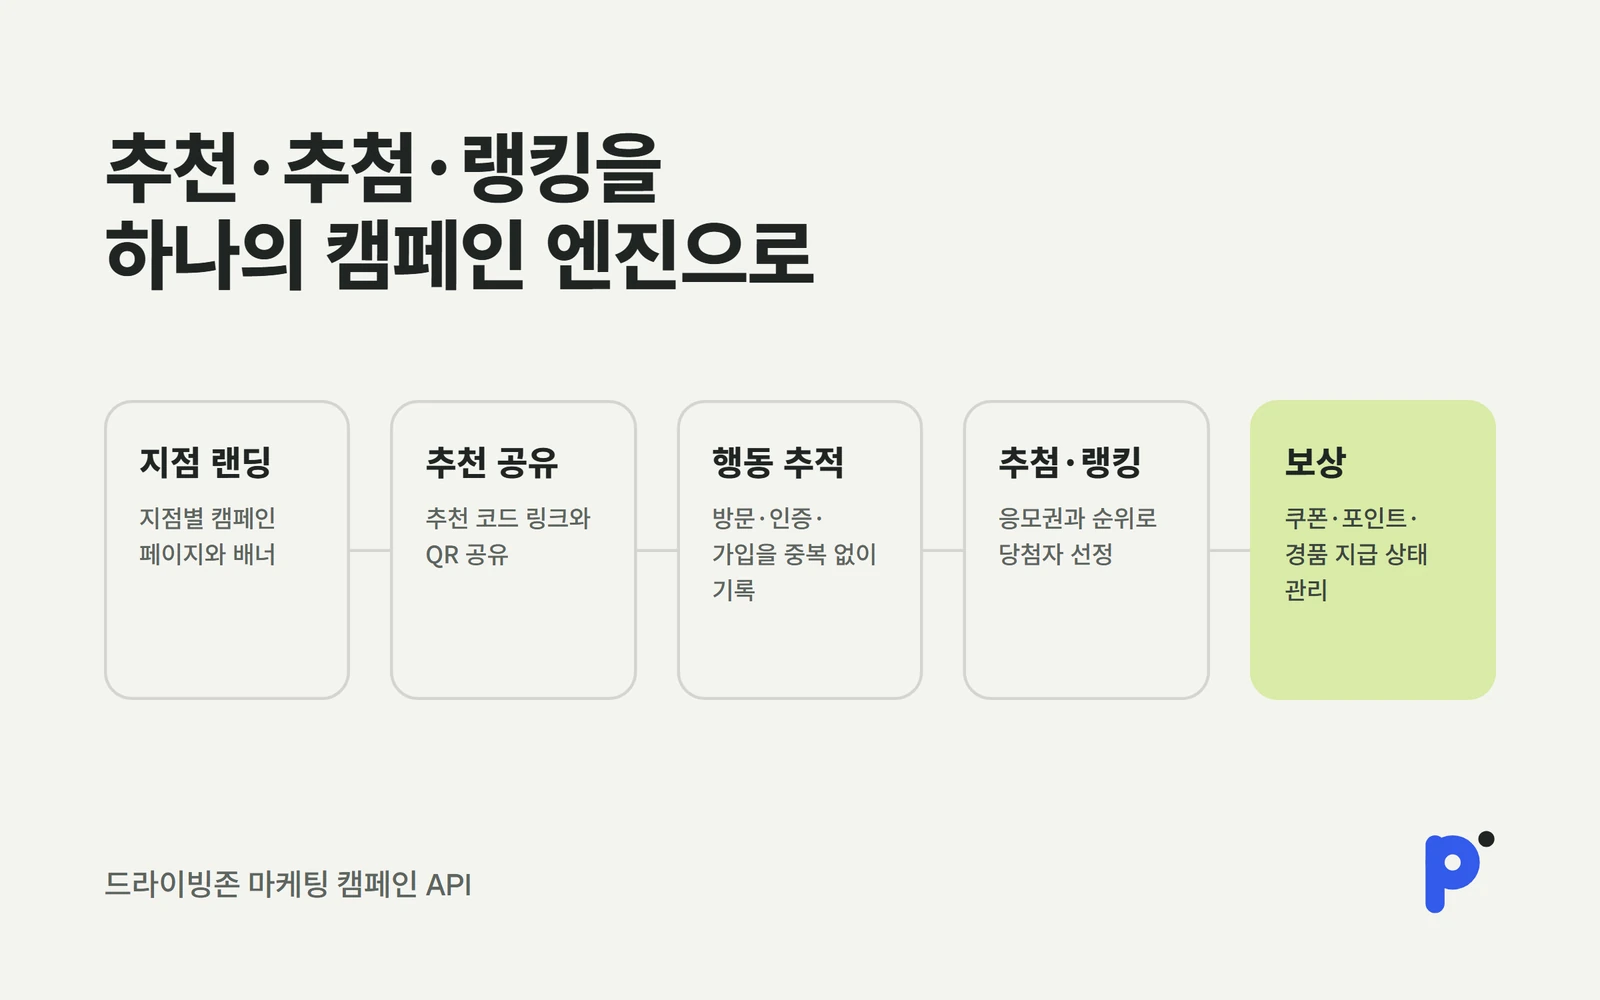
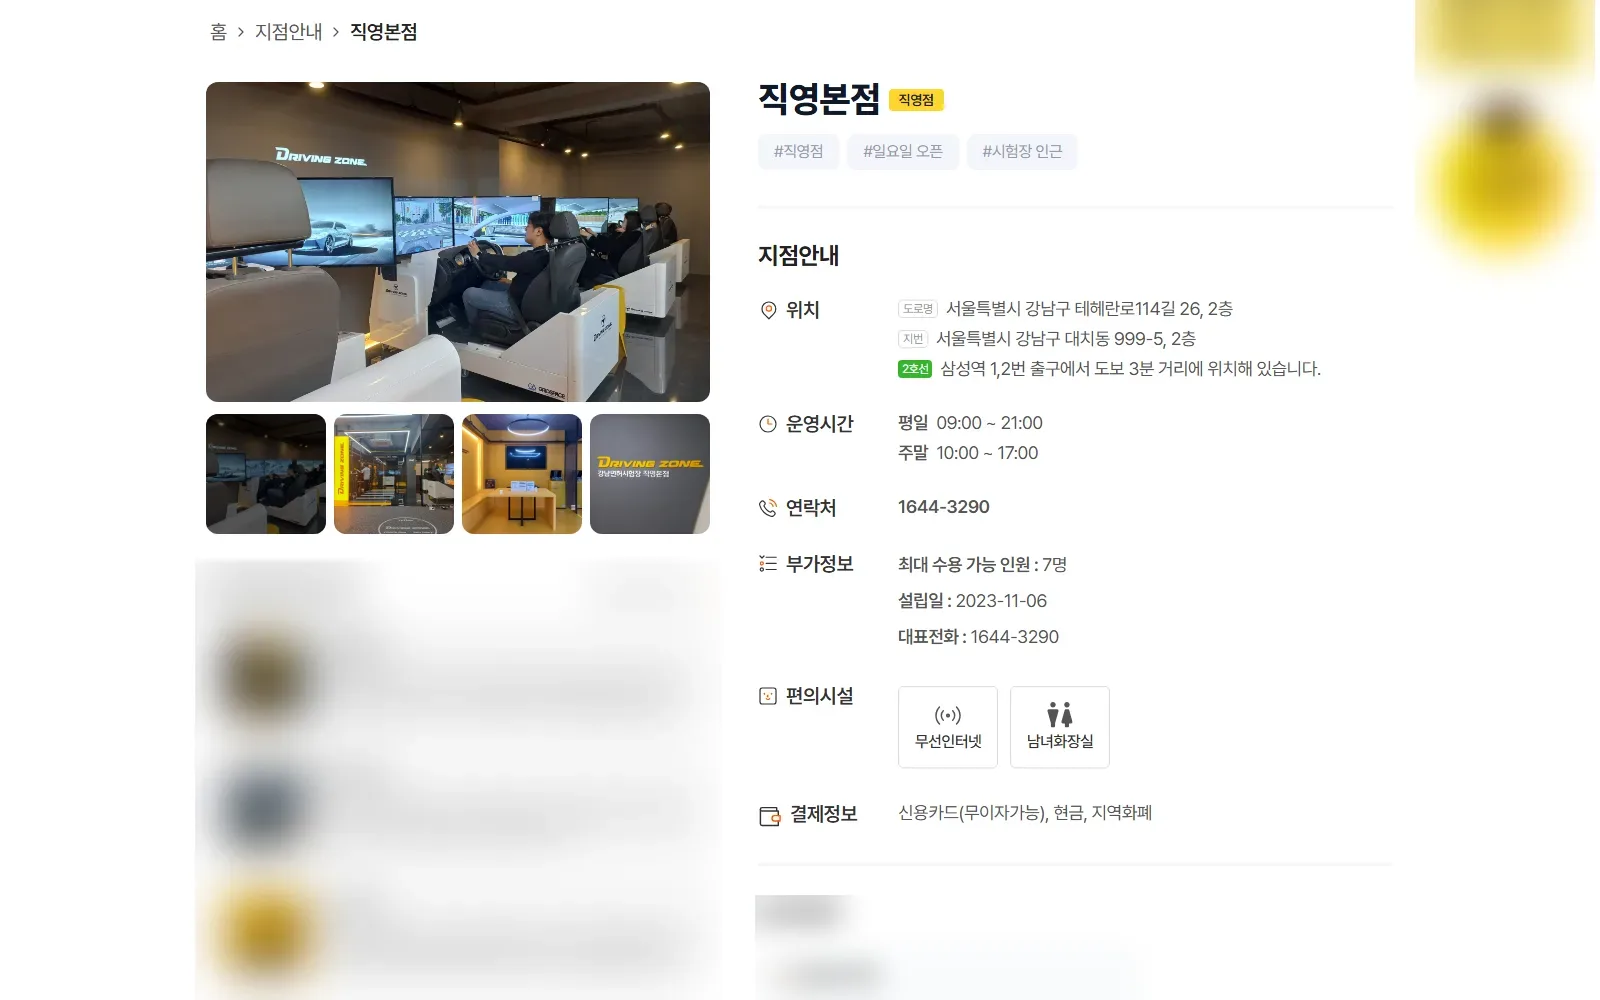
feat(work): add PredixScore; merge Drivingzone web renewal into campaign entry
From the owner's second adrock archive (-003.zip):
- predixscore (client, case, 2026): paper prediction records on public
  Polymarket data, no real orders; brand cover + panel
- drivingzone-campaign -> "드라이빙존 웹 리뉴얼 · 캠페인" (2025-2026, live):
  branch pages + SEO + campaign landing/admin from web.drivingzone, plus the
  existing API scope; live captures with widget/review/instructor names blurred
- skipped seo-app (overlaps blog engine, scraped-data lineage), adrock-event
  (2-day promo, unverified), scraw (empty); inventory and memory updated

diff --git a/lib/portfolio.ts b/lib/portfolio.ts
@@ -376,51 +376,111 @@ const projectList: readonly PortfolioProject[] = [
   },
   {
     slug: "drivingzone-campaign",
-    name: "드라이빙존 마케팅 캠페인 API",
+    name: "드라이빙존 웹 리뉴얼 · 캠페인",
     category: "client",
-    years: [2026, 2026],
+    years: [2025, 2026],
     description:
-      "운전면허 학원 지점별 캠페인 랜딩, 친구 추천·추첨·랭킹 이벤트, 상담 예약을 운영하는 NestJS 백엔드.",
-    disciplines: ["NestJS", "Marketing", "Admin API"],
-    status: "case",
-    coverKind: "brand",
-    coverMotif: "flow",
-    cover: { src: "/work/drivingzone-campaign/cover.webp", alt: "드라이빙존 마케팅 캠페인 API PLUCK 브랜드 썸네일 — 추천·추첨·랭킹을 하나의 캠페인 엔진으로" },
+      "실내 운전면허 학원 드라이빙존의 Next.js 웹 지점 페이지·SEO 리뉴얼과, 지점별 추천·추첨 캠페인 랜딩·관리자·NestJS 백엔드.",
+    disciplines: ["Next.js", "SEO", "NestJS"],
+    status: "live",
+    url: "https://www.drivingzone.co.kr/",
+    coverKind: "screenshot",
+    cover: { src: "/work/drivingzone-campaign/cover.webp", alt: "드라이빙존 지점안내 페이지 - 지도 위 지점 마커, 시/도 선택, 27개 지점 검색 결과와 필터 칩 (우측 상담 위젯 블러)" },
     gallery: [
+      { src: "/work/drivingzone-campaign/01.webp", alt: "드라이빙존 지점 상세 페이지 - 지점 사진, 위치·운영시간·연락처·편의시설 정보 (이용자 리뷰·강사 이름 블러)" },
       {
-        src: "/work/drivingzone-campaign/01.webp",
+        src: "/work/drivingzone-campaign/02.webp",
         alt: "지점 캠페인 랜딩에서 추천 코드 공유, 방문·가입 추적, 추첨·랭킹, 보상 지급으로 이어지는 흐름 설명 패널",
         diagram: {"title": "추천·추첨·랭킹을\n하나의 캠페인 엔진으로", "flow": true, "items": [{"title": "지점 랜딩", "text": "지점별 캠페인 페이지와 배너"}, {"title": "추천 공유", "text": "추천 코드 링크와 QR 공유"}, {"title": "행동 추적", "text": "방문·인증·가입을 중복 없이 기록"}, {"title": "추첨·랭킹", "text": "응모권과 순위로 당첨자 선정"}, {"title": "보상", "text": "쿠폰·포인트·경품 지급 상태 관리"}]},
       },
     ],
     detail: {
-      oneLiner: "추천·추첨·랭킹을 하나의 캠페인 엔진으로",
+      oneLiner: "지점 찾기부터 추천 캠페인까지",
       role: [
+        "프론트엔드",
+        "SEO",
+        "캠페인 관리자",
         "백엔드",
         "데이터 설계",
-        "관리자 API",
       ],
       stack: [
+        "Next.js 15",
+        "React 19",
+        "TanStack Query",
+        "next-sitemap",
         "NestJS 11",
-        "TypeScript",
         "TypeORM",
         "MariaDB",
         "Slack Webhook",
       ],
       overview:
-        "애드락(Adrock)에서 참여한 실내 운전면허 학원 드라이빙존의 백엔드 작업입니다. 기존 NestJS API에 지점별 캠페인 랜딩, 친구 추천·추첨·미션·랭킹을 묶은 마케팅 이벤트 엔진, 관리자 인증과 캠페인 관리 API를 추가했습니다.",
+        "애드락(Adrock)에서 참여한 실내 운전면허 학원 드라이빙존 작업입니다. 2025년에는 Next.js 웹의 지점 안내·지점 상세 페이지와 사이트맵·메타데이터 SEO를 맡았고, 2026년에는 지점별 추천 캠페인 랜딩과 캠페인 관리자 화면, 이를 받치는 NestJS 마케팅 이벤트 엔진을 만들었습니다.",
       problem:
-        "지점마다 진행하는 추천·응모 이벤트를 매번 따로 만들다 보니 참여자 인증, 중복 추천, 보상 지급 상태를 일관되게 관리하기 어려웠습니다.",
+        "전국 지점 정보가 검색에 잘 드러나지 않았고, 지점마다 진행하는 추천·응모 이벤트는 매번 따로 만들다 보니 참여자 인증, 중복 추천, 보상 지급 상태를 일관되게 관리하기 어려웠습니다.",
       solution:
-        "추첨·추천 보상·미션·랭킹을 한 캠페인 모델과 행동 로그로 통합하고, 공유·방문·가입을 추적해 중복 보상을 막았습니다. 지점 랜딩에서 들어온 상담 예약은 관리자 목록과 Slack 알림으로 바로 전달되게 했습니다.",
+        "지점 페이지를 API 데이터 기반으로 만들고 지점·지역 슬러그, 동적 사이트맵, 페이지별 메타데이터, 태그 기반 캐시 재검증을 붙였습니다. 캠페인은 추첨·추천 보상·미션·랭킹을 한 모델과 행동 로그로 통합해 중복 보상을 막고, 지점 랜딩의 상담 예약은 관리자 목록과 Slack 알림으로 바로 전달되게 했습니다.",
       features: [
-        "지점별 캠페인 랜딩과 배너 관리",
+        "지도 마커·지역 필터 지점 안내",
+        "지점 상세(사진·운영시간·강사·후기·가까운 지점)",
+        "동적 사이트맵·지역 슬러그·페이지별 메타데이터",
+        "지점별 추천 캠페인 랜딩과 공유 시트",
+        "캠페인·배너 관리자 화면",
         "추첨·추천 보상·미션·랭킹 이벤트 엔진",
-        "공유·방문·가입 행동 추적과 중복 보상 방지",
-        "어뷰징 플래그와 참여자 인증",
-        "강사 칭찬 후기 수집·공개",
+        "공유·방문·가입 추적과 중복 보상 방지",
         "상담 예약 접수와 Slack 알림",
-        "관리자 로그인과 캠페인 통계 API",
+      ],
+    },
+  },
+  {
+    slug: "predixscore",
+    name: "PredixScore",
+    category: "client",
+    years: [2026, 2026],
+    description:
+      "Polymarket 공개 시장 데이터로 가상 예측을 기록하고 정확도·평판을 쌓는 예측 기록 서비스. 실제 주문·자금 거래 없음.",
+    disciplines: ["Next.js", "Supabase", "Web3"],
+    status: "case",
+    coverKind: "brand",
+    cover: { src: "/work/predixscore/cover.webp", alt: "PredixScore PLUCK 브랜드 썸네일 — 공개 시장 데이터로 쌓는 예측 기록" },
+    gallery: [
+      {
+        src: "/work/predixscore/01.webp",
+        alt: "시장 데이터 조회, 가상 예측 기록, 결과 정산·통계, 온체인 기록으로 이어지는 흐름 설명 패널",
+        diagram: {"title": "공개 시장 데이터로\n쌓는 예측 기록", "flow": true, "items": [{"title": "시장 데이터", "text": "Polymarket 이벤트·가격 이력 조회"}, {"title": "가상 예측", "text": "실제 돈 없이 가상 수량으로 기록"}, {"title": "정산·통계", "text": "결과 확정 후 적중률·리더보드"}, {"title": "온체인 기록", "text": "commit-reveal 레지스트리로 검증"}]},
+      },
+    ],
+    detail: {
+      oneLiner: "공개 시장 데이터로 쌓는 예측 기록",
+      role: [
+        "기획",
+        "프론트엔드",
+        "백엔드",
+        "외부 API 연동",
+      ],
+      stack: [
+        "Next.js 15",
+        "React 19",
+        "TypeScript",
+        "Supabase",
+        "Privy",
+        "viem",
+        "next-intl",
+        "shadcn/ui",
+      ],
+      overview:
+        "애드락(Adrock)에서 만든 예측 기록 서비스입니다. Polymarket을 공개 시장 데이터 소스로만 쓰고, 사용자는 실제 주문이나 자금 거래 없이 가상 수량으로 예측을 남깁니다. 결과가 확정되면 적중률·통계·리더보드로 공개 평판을 쌓습니다. 예측 기록을 Ronin 체인의 commit-reveal 레지스트리에 남기는 부분은 팀원과 함께 붙였습니다.",
+      problem:
+        "예측을 잘한다는 주장은 기록이 남지 않으면 검증할 수 없고, 나중에 고쳐 쓸 수 있는 기록은 신뢰를 얻기 어려웠습니다.",
+      solution:
+        "Supabase 기반으로 시장 탐색·가상 예측·정산·통계·프로필 흐름을 먼저 만들고, 데이터 구조를 온체인 commit-reveal 기록으로 옮길 수 있게 설계했습니다. 지갑 로그인은 Privy로 붙이고, 한국어·영어를 지원합니다.",
+      features: [
+        "Polymarket 이벤트·마켓 탐색",
+        "가격 이력 멀티라인 차트와 구간 전환",
+        "가상 예측 기록·정산·통계",
+        "리더보드와 공개 프로필",
+        "이벤트별 댓글",
+        "Privy 지갑 로그인",
+        "한국어·영어(next-intl)",
       ],
     },
   },

diff --git a/docs/portfolio-inventory.md b/docs/portfolio-inventory.md
@@ -10,7 +10,7 @@
 - 뺀다: 자기 커밋이 없는 서드파티 OSS 포크, 다른 회사 사이트 클론·복제, 튜토리얼, 하루 미만이고 기능이 없는 스캐폴드, 트레이딩 봇, ibctgit 관련, 개인 문서·노트, 실데이터가 들어 있는 폴더.
 - 상태: `live` 는 우리가 배포했고 지금 200 으로 열리는 URL 이 있을 때만 쓴다. 고객사 실명은 고객 라이브 사이트에 이미 공개된 경우에만 쓴다.
 
-## 포함 (57)
+## 포함 (58)
 
 ### 기존 40개
 
@@ -84,10 +84,13 @@
 |---|---|---|---|---|---|
 | BlockPick (blockpick) | adrock `blockpick/app-blockpick` (Flutter) | 그리드형 이벤트 판 참여 + 포인트·리퍼럴 플랫폼의 유저앱 | 앱 · 사례 | 브랜드 썸네일 + 설명 패널 | 오너(adrock_simjae) 커밋 141/145, 2025-10~2026-05. 오너 요청으로 기존 제외 판단을 뒤집음(아래 제외 표 참고) |
 | 피트니스 센터 CRM · 회원앱 (fitness-crm) | dev-spogym/admin-pando, client-pando, docs-pando | 센터 관리자 CRM + 역할별 모바일 웹앱 + 기획 문서 사이트 | 클라이언트 · 사례 | 브랜드 썸네일 + 설명 패널 | 2026-03~06. Vercel 배포 3개 모두 404 → 링크 없음. 고객사명 미공개라 일반명 |
-| 드라이빙존 마케팅 캠페인 API (drivingzone-campaign) | adrock-dev/api.drivingzone | 지점 캠페인 랜딩·추천·추첨·랭킹 이벤트 엔진 NestJS 백엔드 | 클라이언트 · 사례 | 브랜드 썸네일 + 설명 패널 | 오너 커밋 26개(marketing·campaign-landing·admin-auth 도메인만), 2026-05~06. 레포 다른 모듈은 타 작성자 → 오너 범위로만 기재 |
+| 드라이빙존 웹 리뉴얼 · 캠페인 (drivingzone-campaign) | adrock-dev/web.drivingzone + adrock-dev/api.drivingzone | 지점 안내·상세·SEO(2025) + 캠페인 랜딩·관리자(2026) + 캠페인 이벤트 엔진 API | 클라이언트 · 라이브 | drivingzone.co.kr 라이브 캡처(상담 위젯·이용자 리뷰·강사 이름 블러) + 설명 패널 | web 오너 커밋 198개(2025-05~07, 2026-05~06, branch·SEO·campaign·admin), api 26개. 라이브 HTML 메타 문구가 레포 layout.tsx 와 일치 → 링크. 홈 화면은 팝업·수치 배지(8만명+/95.27%)라 캡처 미사용. 이력서의 '쿠폰 선물하기'는 커밋·코드에 없어 미기재 |
+| PredixScore (predixscore) | ADROCK-SIMJAE/predixscore (`-003.zip`) | Polymarket 공개 데이터 기반 가상 예측 기록·평판 서비스 | 클라이언트 · 사례 | 브랜드 썸네일 + 설명 패널 | 오너 커밋 16/19, 2026-05. Ronin 컨트랙트 배포·commit-reveal·가스 대납은 송문천 커밋 → '팀원과 함께'로만 표기. predixscore.vercel.app 은 레포와 같은 문구지만 우리 Vercel 계정에 없어 링크 보류 |
 | (확장) 운전면허 PLUS · 도로로 (adrock-driving) | adrock-dev/web.drivingplus | 운전면허 PLUS 앱 웹뷰 이벤트 화면 | 기존 유지 | 기존 유지 | 오너 커밋 251개, 2025-02~04(학과왕 응모·당첨·응모 이력·보상형 광고 브리지·Amplitude) |
 
-같은 압축본에서 뺀 것: `coupang-scraper-ext`(빈 폴더), adrock `browser-bridge`(기존 Browser Bridge 엔트리와 같은 프로젝트), adrock `seo`(경쟁사 블로그 21,275건 스크랩 데이터 + 전략 문서·PoC — 타사 데이터 기반 리서치라 게재 안 함, 기존 '블로그 양산 엔진'과 주제 중복), `_root-files`(설정 파일뿐). 브리프의 'BlockPick 웹 미니게임·결제·어드민', '드라이빙존 웹 리뉴얼'은 압축본에 코드가 없어 카피에 넣지 않음.
+두 번째 압축본(`adrock-*-003.zip`)에서 뺀 것: `scraw`(빈 폴더), `seo-app`(git 없음, academy.drivingplus.me 용 양산형 SEO 단일 테넌트 빌드 — 경쟁사 블로그 스크랩 리서치에서 이어진 것이고 기존 '블로그 양산 엔진'과 구성(관리자·워커·Next.js 커뮤니티 키트)이 겹침), `adrock-event`(세차 쿠폰 뽑기 이벤트 페이지, 오너 커밋 12개·실작업 2일(2026-04-20, 04-29), 배포·브랜드 확인 불가 → 보류).
+
+같은 압축본에서 뺀 것: `coupang-scraper-ext`(빈 폴더), adrock `browser-bridge`(기존 Browser Bridge 엔트리와 같은 프로젝트), adrock `seo`(경쟁사 블로그 21,275건 스크랩 데이터 + 전략 문서·PoC — 타사 데이터 기반 리서치라 게재 안 함, 기존 '블로그 양산 엔진'과 주제 중복), `_root-files`(설정 파일뿐). 브리프의 'BlockPick 웹 미니게임·결제·어드민', '드라이빙존 웹 리뉴얼'은 첫 압축본에 없어 보류했다가 `-003.zip` 의 web.drivingzone 으로 반영.
 
 ## 실화면·영상 캡처 현황 (2026-10-30, feat/portfolio-media)
 

diff --git a/.fry/MEMORY.md b/.fry/MEMORY.md
@@ -11,6 +11,9 @@
 - adrock-driving: 운전면허 PLUS(Play, com.adrock.driverlicense300) 저장소 android.drive 에는 오너 커밋이 없음(leemj/이미지/jdk). 오너 커밋은 web.dororo(보일러플레이트·웹뷰 통신)와 web.drivingplus(2026-11 오너 업로드 압축본, 2025-02~04 학과왕 응모·당첨 웹뷰·보상형 광고 브리지·Amplitude) → role/features 는 이 범위로만. app.drivingplus.me 는 같은 레포 계열이지만 이후 타인이 바꾼 학원찾기 사이트라 링크로 쓰지 않음. Play 스토어 스크린샷 중 '1000만이 선택', '1,601,032,242건' 등 수치 이미지는 사용 금지.
 - Figma MCP 는 gethopp/figma-mcp-bridge 포크(우리 작업 = 정밀 추출 커밋) → "포크/확장"으로 표기.
 - 애드락(전 직장, 2024.07~2026.07) 작업은 오너가 올린 압축본에서만 확인 가능(GitHub adrock-dev 접근 불가). 레포에 타 작성자 커밋이 섞여 있으니 `git log --author=simjae` 범위의 도메인만 카피에 쓴다(api.drivingzone = marketing/campaign-landing/admin-auth 뿐). 오너 브리프·이력서 문구(웹 31개 미니게임, 4개 언어, PortOne 결제 등)도 압축본 코드에 없으면 쓰지 않는다.
+- 애드락 압축본은 여러 개(`adrock-*-001.zip`, `-003.zip` …)로 나뉘어 온다. 새 업로드 땐 Downloads 의 같은 접두어 zip 을 전부 확인할 것(첫 작업에서 -003 을 놓쳐 Predix·드라이빙존 웹이 누락됐음).
+- drivingzone-campaign 슬러그는 웹 리뉴얼+캠페인 API 를 합친 엔트리(이름 '드라이빙존 웹 리뉴얼 · 캠페인'). 라이브 캡처 시 지점 상세의 이용자 리뷰 닉네임·강사 이름, 우측 상담 위젯(전화번호) 블러. 홈의 팝업·수치 배지(8만명+, 95.27%)는 쓰지 않는다.
+- predixscore: Polymarket 은 데이터 소스일 뿐 실거래·자금 수탁 없음(제품 기획서 명시) → 카피에 '가상 예측·실제 주문 없음' 유지, 베팅·수익 표현 금지. 온체인 컨트랙트는 타 작성자 작업. 압축본 .env 에 지갑 키가 있으니 열지 말 것.
 - fitness-crm(판도/pando, dev-spogym 레포, 제품명 FitGenie): 고객사 미공개·배포 404 → 일반명 + 브랜드 썸네일. admin-pando qa-results/client-deliverables 의 실화면 캡처는 테스트 데이터지만 'FitGenie CRM' 로고·지점명이 보여 미사용(쓰려면 오너 확인 후 로고 블러). 옛 showreel.tsx(미사용 섹션)의 'FitGenie + 스포짐' 표기를 근거로 실명 쓰지 말 것.
 - blockpick: 2026-10 인벤토리에선 '사행성' 이유로 제외했으나 2026-11-09 오너 요청으로 Flutter 유저앱만 게재. 카피는 참여·포인트·리퍼럴 구조로만, 경매·베팅·수익 표현 금지. assets 의 상품 이미지(명품·브랜드 사진)는 썸네일에 쓰지 않는다.
 - 브랜드 커버 이름에 ' · '(공백 포함)이 있으면 결합 처리가 안 돼 '·'가 줄 맨 앞에 올 수 있다(긴 영문+한글 이름). 렌더 후 반드시 눈으로 확인하고 이름을 줄이거나 바꾼다(BlockPick).
